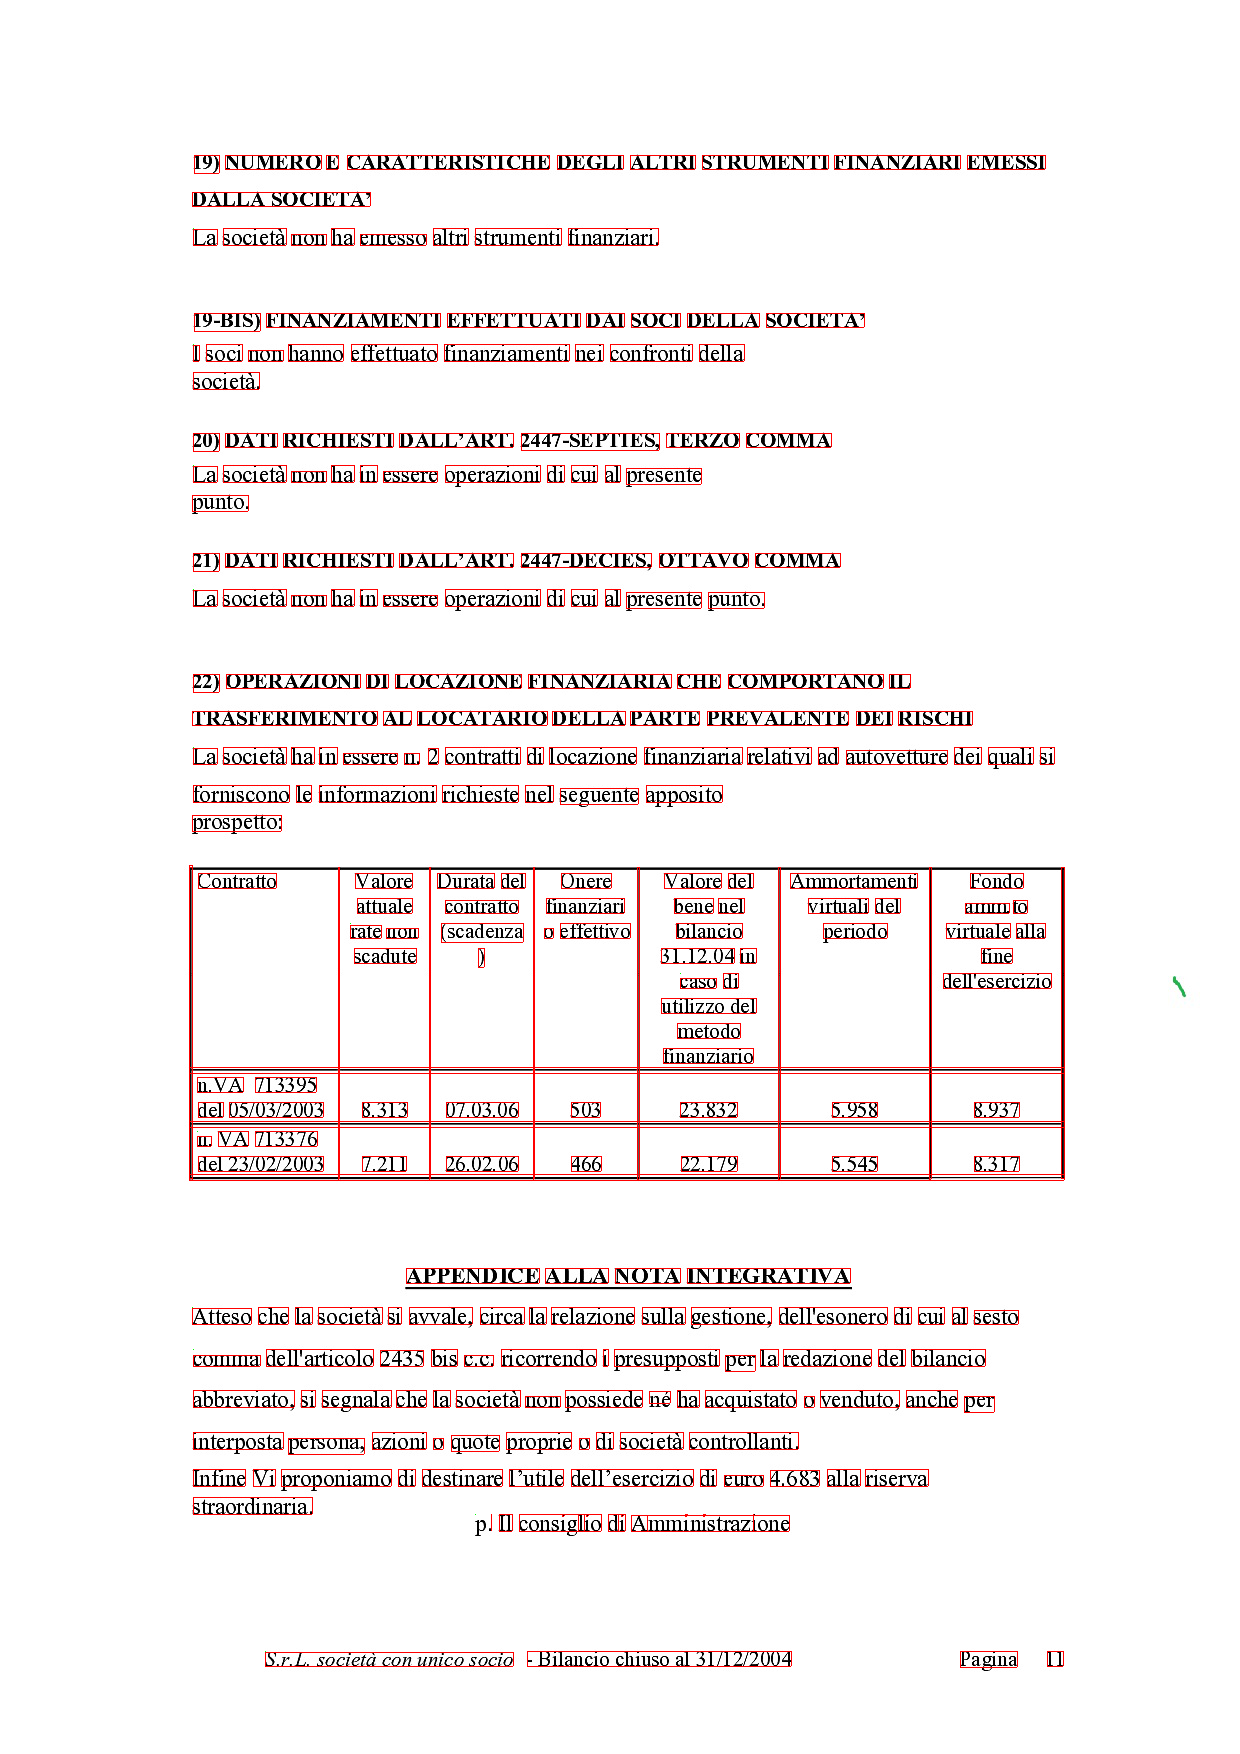
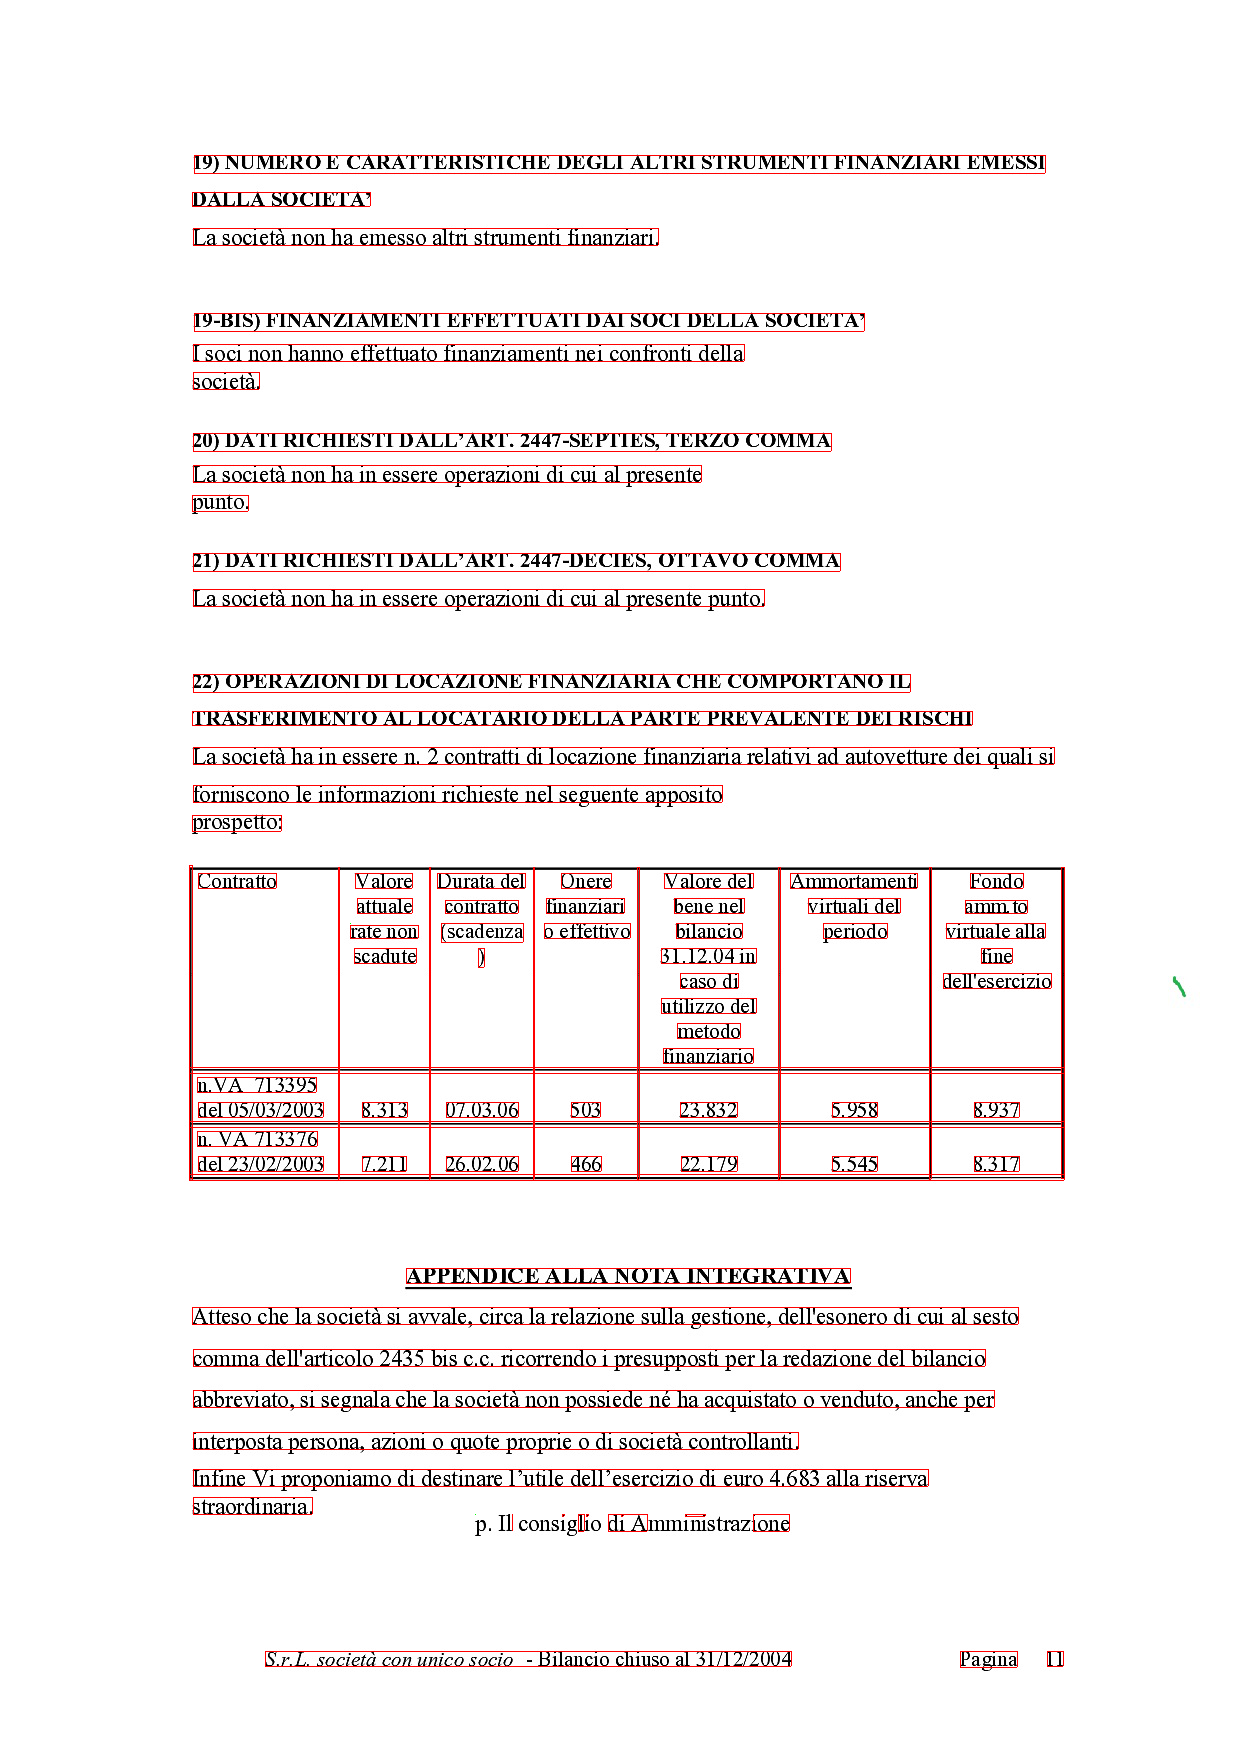
whole-text approach to whitespace detection

Changed region(s): [[0.521, 0.2463, 0.5516, 0.2771]]

diff --git a/tabularOCR/src/ocr_process/process.cpp b/tabularOCR/src/ocr_process/process.cpp
@@ -35,20 +35,24 @@ namespace ocr
 			&& symbol->y <= textline->y + textline->h);
 	}
 
-	int get_whitespace(std::vector<BOX*> & symbols)
+	std::vector<int> get_spaces(const std::vector<BOX*> & symbols)
 	{
-		std::vector <int> all_spaces;
+		std::vector <int> result;
 		// iterate over all symbols and return the whitespaces between them
 		for (int i = 0; i < symbols.size() - 1; i++)
 		{
 			BOX* first = symbols[i];
 			BOX* second = symbols[i + 1];
 			int space = second->x - first->x - first->w;
-			all_spaces.push_back(space);
+			result.push_back(space);
 		}
+		return result;
+	}
+
+	int get_whitespace(std::vector<int> & all_spaces, double constant)
+	{
 		std::sort(all_spaces.begin(), all_spaces.end());
 		// heuristical estimation of the space
-		double constant = get_avg_char_width(symbols) / REF_FONT_SIZE;
 		int i = 0;
 		while (i < all_spaces.size() && all_spaces[i] < constant)
 			i++;
@@ -62,19 +66,6 @@ namespace ocr
 			}
 			i++;
 		}
-
-		/*
-		int i = all_spaces.size() - 1;
-		while (i > 0)
-		{
-			double comp = all_spaces[i] / 2;
-			if (all_spaces[i] % 2 == 1)
-				comp++;
-			if (all_spaces[i - 1] <= comp)
-				break;
-			i--;
-		}
-		*/
 		int ws = 0;
 		if (i < all_spaces.size())
 			ws = all_spaces[i];
@@ -84,6 +75,18 @@ namespace ocr
 		return ws;
 	}
 
+	void merge_boxes(BOX* & result, BOX* & to_add)
+	{
+		if (result == nullptr)
+			result = to_add;
+		else
+		{
+			result->w = to_add->w + to_add->x - result->x;
+			result->h = std::max(result->h, to_add->h);
+			result->y = std::min(result->y, to_add->y);
+		}
+	}
+
 	std::vector<BOX*> merge_into_words(std::vector<BOX*> & symbols, int whitespace)
 	{
 		std::vector<BOX*> result = {};
@@ -91,11 +94,7 @@ namespace ocr
 		for (size_t i = 0; i < symbols.size() - 1; i++)
 		{	
 			if (symbols[i]->x + symbols[i]->w + whitespace > symbols[i + 1]->x)
-			{
-				word->w = symbols[i + 1]->w + symbols[i + 1]->x - word->x;
-				word->h = std::max(word->h, symbols[i + 1]->h);
-				word->y = std::min(word->y, symbols[i + 1]->y);
-			}
+				merge_boxes(word, symbols[i + 1]);
 			else
 			{
 				result.push_back(word);
@@ -106,7 +105,7 @@ namespace ocr
  		return result;
 	}
 
-	int get_avg_char_width(std::vector<BOX*> & symbols)
+	int get_char_height(std::vector<BOX*> & symbols)
 	{
 		int sum = 0;
 		for (int i = 0; i < symbols.size(); i++)
@@ -128,11 +127,65 @@ namespace ocr
 		return 0;
 	}
 
+	std::vector<font_category> get_font_categories(std::vector<int> & fonts)
+	{
+		fonts.erase(std::unique(fonts.begin(), fonts.end()), fonts.end());
+		int difference = 4;
+		int k = 1;
+		std::vector<font_category> categories = {};
+		int first_val = fonts[0];
+		std::vector<int> one_cat = {first_val};
+		int i = 1;
+
+		while (i < fonts.size())
+		{
+			while (i < fonts.size() && fonts[i] < 10 * k && fonts[i - 1] + difference > fonts[i] && first_val+difference >= fonts[i])
+			{
+				one_cat.push_back(fonts[i]);
+				i++;
+			}
+			if (i == fonts.size())
+				break;
+			else if (fonts[i] >= 10 * k)
+			{
+				k++;
+				difference++;
+			}
+			else
+			{
+				int sum = 0;
+				for (size_t j = 0; j < one_cat.size(); j++) // mby median?
+					sum += one_cat[j];
+				font_category new_cat;
+				new_cat.font = sum / one_cat.size();
+				new_cat.lines = {};
+				new_cat.whitespace = 0;
+				new_cat.spaces = {};
+				categories.push_back(new_cat);
+				one_cat.clear();
+				first_val = fonts[i];
+				one_cat.push_back(first_val);
+				i++;
+			}
+		}
+		int sum = 0;
+		for (size_t j = 0; j < one_cat.size(); j++) //mby median?
+			sum += one_cat[j];
+		font_category new_cat;
+		new_cat.font = sum / one_cat.size();
+		new_cat.lines = {};
+		new_cat.whitespace = 0;
+		new_cat.spaces = {};
+		categories.push_back(new_cat);
+		return categories;
+	}
+
 	void process_image()
 	{
 		Pix *img = pixRead("E:/bachelor_thesis/tabularOCR/test_images/img/5.jpg");
 		if (img->d == 8)
 			img = pixConvert8To32(img);
+
 		// itialize tesseract api without the use of LSTM
 		tesseract::TessBaseAPI *api = new tesseract::TessBaseAPI();
 		if (api->Init(NULL, "eng", tesseract::OcrEngineMode::OEM_TESSERACT_ONLY))
@@ -152,13 +205,14 @@ namespace ocr
 		// array of textlines that exist in the image
 		Boxa * textline_arr = api->GetComponentImages(tesseract::RIL_TEXTLINE, false, NULL, NULL);
 
-		std::vector<BOX*> one_line = {};
-		std::vector <BOX*> all_words = {};
+		std::vector <std::vector<BOX*>> all_lines = {};
+		std::vector<int> fonts = {};
+		// mapping line -> font category
+		std::map <std::vector<BOX*>, int> line_map;
 		/*
 		iterate over textlines and symbols to find all symbols in current textline 
-		once found, getwhitespace separating different words in each textline
-		merge these words together and output save them to a vector
 		*/
+		std::vector<BOX*> one_line = {};
 		for (size_t i = 0; i < textline_arr->n; i++)
 		{
 			BOX* textline = boxaGetBox(textline_arr, i, L_CLONE);
@@ -170,24 +224,91 @@ namespace ocr
 				if (is_symbol_in_textline(symbol, textline))
 					one_line.push_back(symbol);
 			}
-			// get the whitespace of the current line
-			int whitespace = img->w;
-			if (one_line.size() > 1)
-				whitespace = get_whitespace(one_line);
-			// if line size and whitespace size is too low, it means that all symbols belong to one word)
-			if (one_line.size() < MAX_CHARS_IN_WORD && whitespace < one_line[0]->w)
-				whitespace = img->w;
+			int font = get_char_height(one_line);
+			fonts.push_back(font);
+			line_map.insert(std::pair<std::vector<BOX*>, int>(one_line, font));
+			all_lines.push_back(one_line);
+			one_line.clear();
+		}
+		std::sort(fonts.begin(), fonts.end());
+		
+		std::vector<font_category> font_cat = get_font_categories(fonts);
+
+		std::map<std::vector<BOX*>, int>::iterator it;
+
+		// determine font category and add all the necessary spaces
+		for (auto line : line_map)
+		{
+			std::vector<int> all_spaces = get_spaces(line.first);
+			int i = 0;
+			while (i < font_cat.size() && line.second > font_cat[i].font)
+				i++;
+			if (i == font_cat.size())
+			{
+				font_cat[i - 1].lines.push_back(line.first);
+				font_cat[i - 1].spaces.insert(font_cat[i - 1].spaces.end(), all_spaces.begin(), all_spaces.end());
+			}
+			else if (i == 0)
+			{
+				font_cat[0].lines.push_back(line.first);
+				font_cat[0].spaces.insert(font_cat[0].spaces.end(), all_spaces.begin(), all_spaces.end());
+			}
+			else if (font_cat[i].font - line.second > line.second - font_cat[i - 1].font)
+			{
+				font_cat[i - 1].lines.push_back(line.first);
+				font_cat[i - 1].spaces.insert(font_cat[i - 1].spaces.end(), all_spaces.begin(), all_spaces.end());
+			}
+			else
+			{
+				font_cat[i].lines.push_back(line.first);
+				font_cat[i].spaces.insert(font_cat[i].spaces.end(), all_spaces.begin(), all_spaces.end());
+			}	
+		}
+
+		// determine whitespace for each category
+		for (int i = 0; i < font_cat.size(); i++)
+		{
+			int ws = img->w;
+			double constant = font_cat[i].font / REF_FONT_SIZE;
+			font_cat[i].whitespace = img->w;
+			if (font_cat[i].spaces.size() != 0)
+				font_cat[i].whitespace = get_whitespace(font_cat[i].spaces, constant);
+		}
+
+		for (size_t i = 0; i < all_lines.size(); i++)
+		{
 			// merge into words and add them into the all_words vector
- 			std::vector<BOX*> curr_words = merge_into_words(one_line, whitespace);
+			std::vector<BOX*> curr_words = merge_into_words(all_lines[i], line_map.at(all_lines[i]));
 			for (size_t k = 0; k < curr_words.size(); k++)
 			{
 				set_border(img, curr_words[k], 255, 0, 0);
 			}
-			all_words.insert(all_words.end(),  curr_words.begin(), curr_words.end());
-			std::cout << "ALL:" << one_line.size() << ":" << whitespace << ":" << get_avg_char_width(one_line) << std::endl;
-			one_line = {};
-		}
 
+
+
+			// determine whether the current line has columns or not
+			/*
+			std::vector<int> word_gaps = get_spaces(curr_words);
+			std::vector<BOX*> columns = {};
+			BOX* column = curr_words[0];
+			for (size_t j = 0; j < word_gaps.size(); j++)
+			{
+				if (word_gaps[j] >= 3 * whitespace)
+				{
+					columns.push_back(column);
+					set_border(img, column, 0, 255, 0);
+					column = curr_words[j + 1];
+				}
+				else
+					merge_boxes(column, curr_words[j + 1]);
+			}
+			if (columns.size() > 0)
+			{
+				set_border(img, column, 0, 255, 0);
+				columns.push_back(column);
+			}*/
+			std::cout << "ALL:" << all_lines[i].size() << ":" << get_char_height(one_line) << std::endl;
+		}
 
 		std::string out = "E:/bachelor_thesis/tabularOCR/out5.jpg";
 		char* path = &out[0u];
@@ -198,10 +319,6 @@ namespace ocr
 
 		// Get OCR result
 		//char* outText = api->GetUTF8Text();
-		//printf("OCR output:\n%s", outText);
-
-		// Destroy used object and release memory
-
 		//delete[] outText;
 	}
 

diff --git a/tabularOCR/src/ocr_process/process.h b/tabularOCR/src/ocr_process/process.h
@@ -12,7 +12,17 @@ namespace ocr
 
 	const size_t MAX_CHARS_IN_WORD = 15;
 
-	const double REF_FONT_SIZE = 20;
+	const double REF_FONT_SIZE = 19;
+
+	struct font_category
+	{
+	public:
+		int font;
+		int whitespace;
+		std::vector<std::vector<BOX*>> lines;
+		std::vector<int> spaces;
+	};
+
 
 	// sets border around the box to a given color
 	void set_border(PIX* img, BOX *box, int r, int g, int b);
@@ -23,12 +33,19 @@ namespace ocr
 
 	bool is_symbol_in_textline(BOX* symbol, BOX* textline);
 	
+	std::vector<int> get_spaces(const std::vector<BOX*> & symbols);
+
 	// returns the whitespace between words in textline
-	int get_whitespace(std::vector<BOX*> & symbols);
+	int get_whitespace(std::vector<int> & all_spaces, double constant);
+
+	void merge_boxes(BOX* & result, BOX* & to_add);
 
 	std::vector<BOX*> merge_into_words(std::vector<BOX*> & symbols, int whitespace);
 
-	int get_avg_char_width(std::vector<BOX*> & symbols);
+	int get_char_height(std::vector<BOX*> & symbols);
+
+	std::vector<font_category> get_font_categories(std::vector<int> & fonts);
 
 	double get_multi_factor(int space_width, double constant);
+
 }
